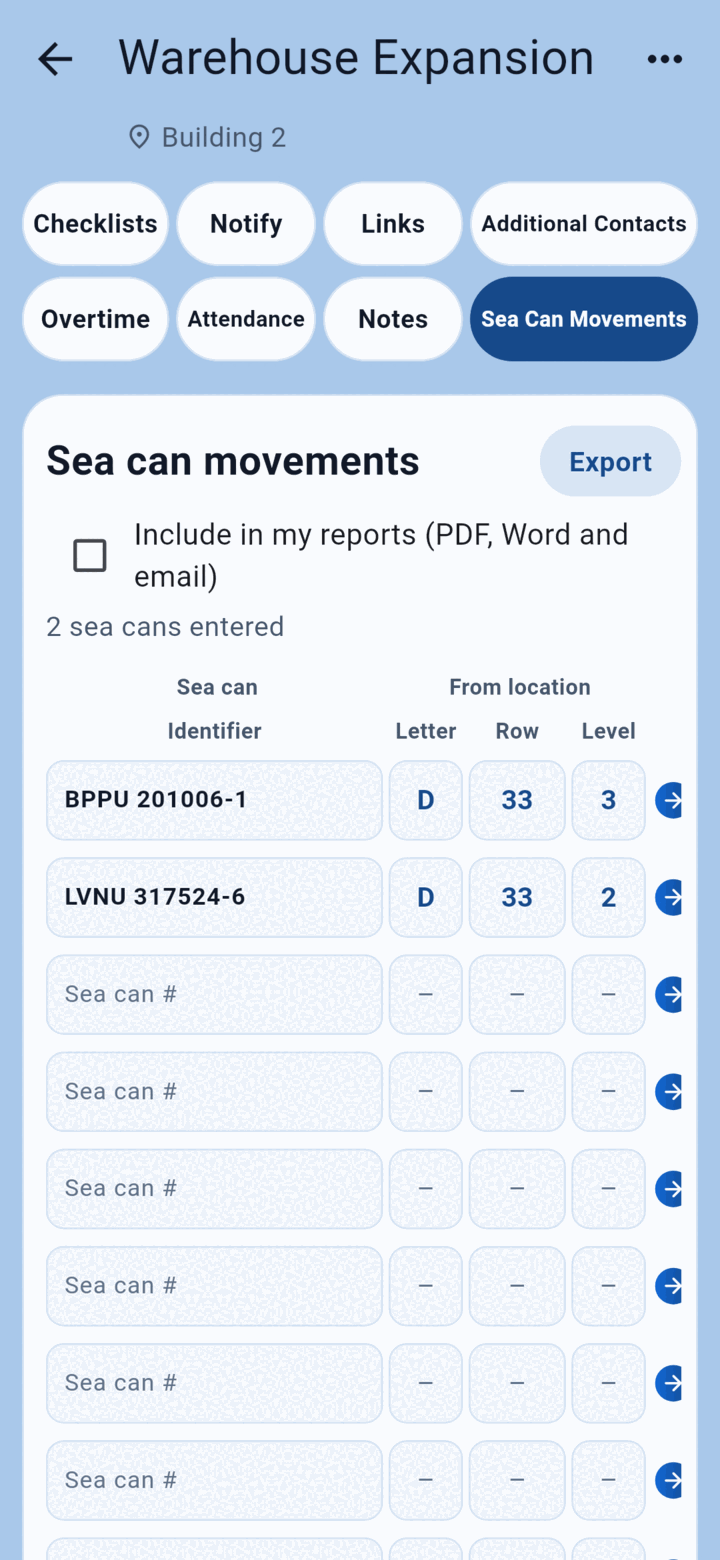
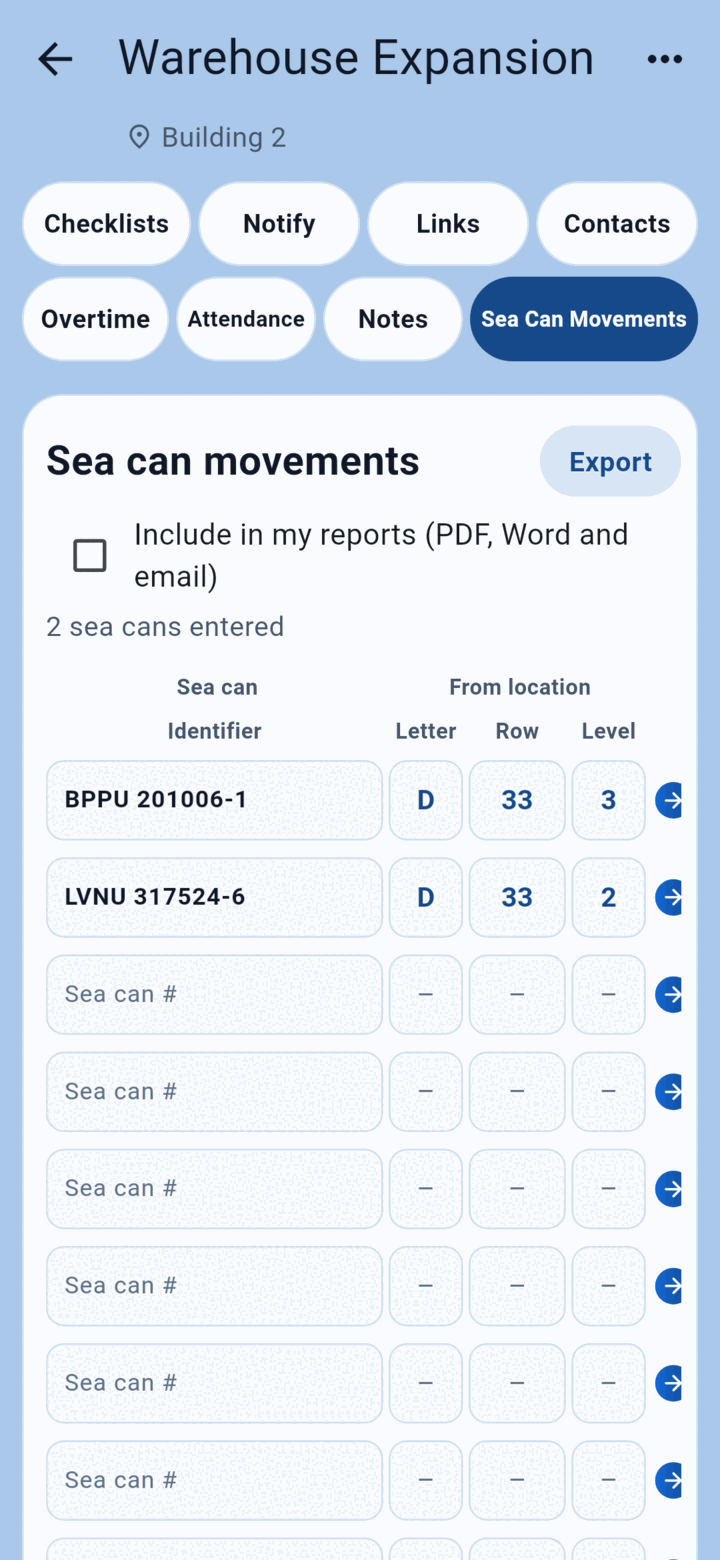
Tabs: the top row no longer sits low or looks cut off; Additional Contacts is now Contacts
Classic tab rows line bubbles up by their edges (baselineAligned off) instead of by their
auto-shrunk text, and every row sizes its bubbles the same way. Contacts is a normal-width tab
in both apps. Manual and screenshots updated. Version 4.45.

Claude-Session: https://claude.ai/code/session_01SU9pkUf5APMbUYgKfLLGdu

Changed region(s): [[0.0306, 0.0923, 0.9472, 0.1846]]

diff --git a/mobile/lib/screens/project_screen.dart b/mobile/lib/screens/project_screen.dart
@@ -36,7 +36,7 @@ const _tabLabels = {
   ProjectTab.checklists: 'Checklists',
   ProjectTab.notify: 'Notify',
   ProjectTab.links: 'Links',
-  ProjectTab.contacts: 'Additional Contacts',
+  ProjectTab.contacts: 'Contacts',
   ProjectTab.overtime: 'Overtime',
   ProjectTab.attendance: 'Attendance',
   ProjectTab.notes: 'Notes',
@@ -1222,7 +1222,7 @@ class _ProjectScreenState extends State<ProjectScreen> {
               children: [
                 for (var i = 0; i < rows[r].length; i++)
                   Expanded(
-                    flex: rows[r][i] == ProjectTab.seaCans || rows[r][i] == ProjectTab.contacts ? 16 : 10,
+                    flex: rows[r][i] == ProjectTab.seaCans ? 16 : 10,
                     child: _pill(rows[r][i], first: i == 0),
                   ),
               ],

diff --git a/mobile/lib/data/models.dart b/mobile/lib/data/models.dart
@@ -408,7 +408,7 @@ class Link {
     ..url = _s(o, 'url');
 }
 
-/// Someone on the Additional Contacts tab (not on the crew). Shared by every project.
+/// Someone on the Contacts tab (not on the crew). Shared by every project.
 class Contact {
   String id = newId();
   String name = '', company = '', title = '', phone = '', email = '', link = '', notes = '';

diff --git a/mobile/lib/screens/contacts_pane.dart b/mobile/lib/screens/contacts_pane.dart
@@ -1,4 +1,4 @@
-// Additional Contacts tab: company contacts who aren't on the crew, shared by every project.
+// Contacts tab: company contacts who aren't on the crew, shared by every project.
 // Call, text, email or open their link; add, edit and delete them.
 import 'package:flutter/material.dart';
 import 'package:url_launcher/url_launcher.dart';

diff --git a/mobile/test/tabs_test.dart b/mobile/test/tabs_test.dart
@@ -69,7 +69,7 @@ void main() {
     expect(a.matches('crane'), isFalse);
   });
 
-  testWidgets('Additional Contacts: add, show, edit', (tester) async {
+  testWidgets('Contacts: add, show, edit', (tester) async {
     tester.view.physicalSize = const Size(1080, 2340);
     tester.view.devicePixelRatio = 2.75;
     addTearDown(tester.view.reset);

diff --git a/mobile/lib/data/store.dart b/mobile/lib/data/store.dart
@@ -24,7 +24,7 @@ class Store extends ChangeNotifier {
   final List<ReportForm> reportForms = [];
   final List<FilledReport> filledReports = [];
 
-  /// Additional Contacts tab, shared by every project.
+  /// Contacts tab, shared by every project.
   final List<Contact> contacts = [];
   String userName = '';
 

diff --git a/classic-android/app/src/main/java/com/dailyworklog/app/LogsActivity.java b/classic-android/app/src/main/java/com/dailyworklog/app/LogsActivity.java
@@ -175,7 +175,7 @@ public class LogsActivity extends AppCompatActivity {
 
     /** Tab ids for "Show or hide tabs"; Checklists can't be hidden. */
     static final String[] TAB_IDS = {"notify", "links", "contacts", "overtime", "attendance", "notes", "seacans"};
-    static final String[] TAB_NAMES = {"Notify", "Links", "Additional Contacts", "Overtime", "Attendance", "Notes", "Sea Can Movements"};
+    static final String[] TAB_NAMES = {"Notify", "Links", "Contacts", "Overtime", "Attendance", "Notes", "Sea Can Movements"};
     private static final int[] TAB_MODES = {MODE_NOTIFY, MODE_LINKS, MODE_CONTACTS, MODE_OVERTIME, MODE_ATTENDANCE, MODE_NOTES, MODE_SEACANS};
 
     /** Pills per row: up to 6 tabs in rows of three, 7 as 4 + 3, 8 as 4 + 4, 9 or more in rows of three. */
@@ -197,7 +197,12 @@ public class LogsActivity extends AppCompatActivity {
     private void layoutTabs() {
         LinearLayout[] tabRows = {findViewById(R.id.tabRow1), findViewById(R.id.tabRow2), findViewById(R.id.tabRow3)};
         TextView[] pills = {pillNotify, pillLinks, pillContacts, pillOvertime, pillAttendance, pillNotes, pillSeaCans};
-        for (LinearLayout r : tabRows) r.removeAllViews();
+        for (LinearLayout r : tabRows) {
+            r.removeAllViews();
+            // Line the bubbles up by their edges, not by their text: tabs whose text shrinks to fit would
+            // otherwise sit lower and look cut off.
+            r.setBaselineAligned(false);
+        }
         List<TextView> shown = new ArrayList<>();
         shown.add(pillLogs);
         for (int i = 0; i < TAB_IDS.length; i++) {
@@ -211,7 +216,7 @@ public class LogsActivity extends AppCompatActivity {
             LinearLayout row = tabRows[Math.min(r, tabRows.length - 1)];
             for (int k = 0; k < sizes[r] && next < shown.size(); k++) {
                 TextView pill = shown.get(next++);
-                boolean wide = pill == pillSeaCans || pill == pillContacts;
+                boolean wide = pill == pillSeaCans;
                 LinearLayout.LayoutParams lp = new LinearLayout.LayoutParams(0, Ui.dp(this, 46), wide ? 1.6f : 1f);
                 if (row.getChildCount() > 0) lp.setMarginStart(Ui.dp(this, 4));
                 row.addView(pill, lp);

diff --git a/classic-android/tests/NoteTest.java b/classic-android/tests/NoteTest.java
@@ -329,7 +329,7 @@ class ManualTest { public static void main(String[] a) throws Exception {
 class HiddenTabsTest { public static void main(String[] a) throws Exception {
   NoteTest.check(LogsActivity.TAB_IDS.length == LogsActivity.TAB_NAMES.length && java.util.Arrays.asList(LogsActivity.TAB_IDS).contains("seacans"), "tab ids");
   NoteTest.check(String.join(",", LogsActivity.TAB_IDS).equals("notify,links,contacts,overtime,attendance,notes,seacans")
-      && LogsActivity.TAB_NAMES[4].equals("Attendance") && LogsActivity.TAB_NAMES[2].equals("Additional Contacts"), "contacts after links, attendance after overtime");
+      && LogsActivity.TAB_NAMES[4].equals("Attendance") && LogsActivity.TAB_NAMES[2].equals("Contacts"), "contacts after links, attendance after overtime");
   NoteTest.check(LogsActivity.firstRowCount(7)==4 && LogsActivity.firstRowCount(6)==3 && LogsActivity.firstRowCount(2)==2, "pill rows");
   System.out.println("TABS PASS"); } }
 class DoneTextTest { public static void main(String[] a) throws Exception {

diff --git a/classic-android/app/src/main/java/com/dailyworklog/app/Store.java b/classic-android/app/src/main/java/com/dailyworklog/app/Store.java
@@ -26,7 +26,7 @@ public final class Store {
 
     public final List<Models.Project> projects = new ArrayList<>();
     public final List<Models.Link> links = new ArrayList<>();
-    /** Additional Contacts tab (app-wide: the same list in every project). */
+    /** Contacts tab (app-wide: the same list in every project). */
     public final List<Models.Contact> contacts = new ArrayList<>();
     /** Documents on the Links tab, report forms read from photos or files, and the reports filled in. App-wide. */
     public final List<Models.Document> documents = new ArrayList<>();

diff --git a/classic-android/app/src/main/java/com/dailyworklog/app/Models.java b/classic-android/app/src/main/java/com/dailyworklog/app/Models.java
@@ -824,7 +824,7 @@ public final class Models {
         }
     }
 
-    /** Additional Contacts tab: someone at the company who isn't on the crew. App-wide, like links. */
+    /** Contacts tab: someone at the company who isn't on the crew. App-wide, like links. */
     public static class Contact {
         public String id = newId();
         public String name = "", company = "", title = "", phone = "", email = "", link = "", notes = "";

diff --git a/classic-android/app/src/main/java/com/dailyworklog/app/ContactsUi.java b/classic-android/app/src/main/java/com/dailyworklog/app/ContactsUi.java
@@ -22,7 +22,7 @@ import com.google.android.material.dialog.MaterialAlertDialogBuilder;
 import java.util.ArrayList;
 import java.util.List;
 
-/** The Additional Contacts tab: contact cards, their Call / Text / Email / Open link buttons, and the edit box. */
+/** The Contacts tab: contact cards, their Call / Text / Email / Open link buttons, and the edit box. */
 final class ContactsUi {
     private ContactsUi() {}
 
